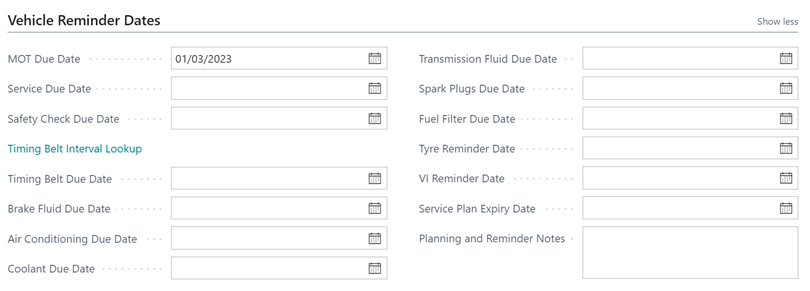
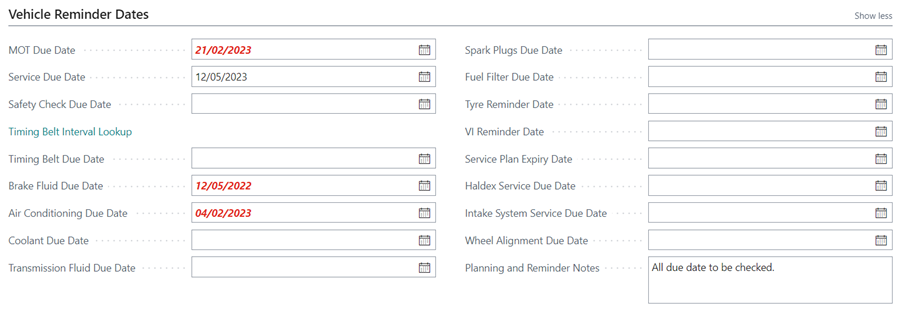
Vehicle Reminder Dates

diff --git a/docs/garagehive-vehicle-card.md b/docs/garagehive-vehicle-card.md
@@ -19,6 +19,10 @@ The dates for vehicle planning and reminders can be manually updated, or a defau
 
    ![](media/garagehive-vehicle-card2.png)
 
+You can also personalise and add **Vehicle Reminder Dates** such as **Haldex Service**, **Intake System Service**, and **Wheel Alignment**. Select the **Settings** icon in the top-right corner, then **Personlise**, and then **+Field** to add a field to the vehicle card.
+
+   ![](media/garagehive-vehicle-card2a.png)
+
 ### Engine 
 This section combines information generated by VRM, such as **Engine No.** and **Capacity**, and manual updates, such as **Engine Oil Capacity** and **Engine Oil Specification** A technician can also access and update this section if they are a [**Device User**](/docs/garagehive-device-user.html "Device User").
 
